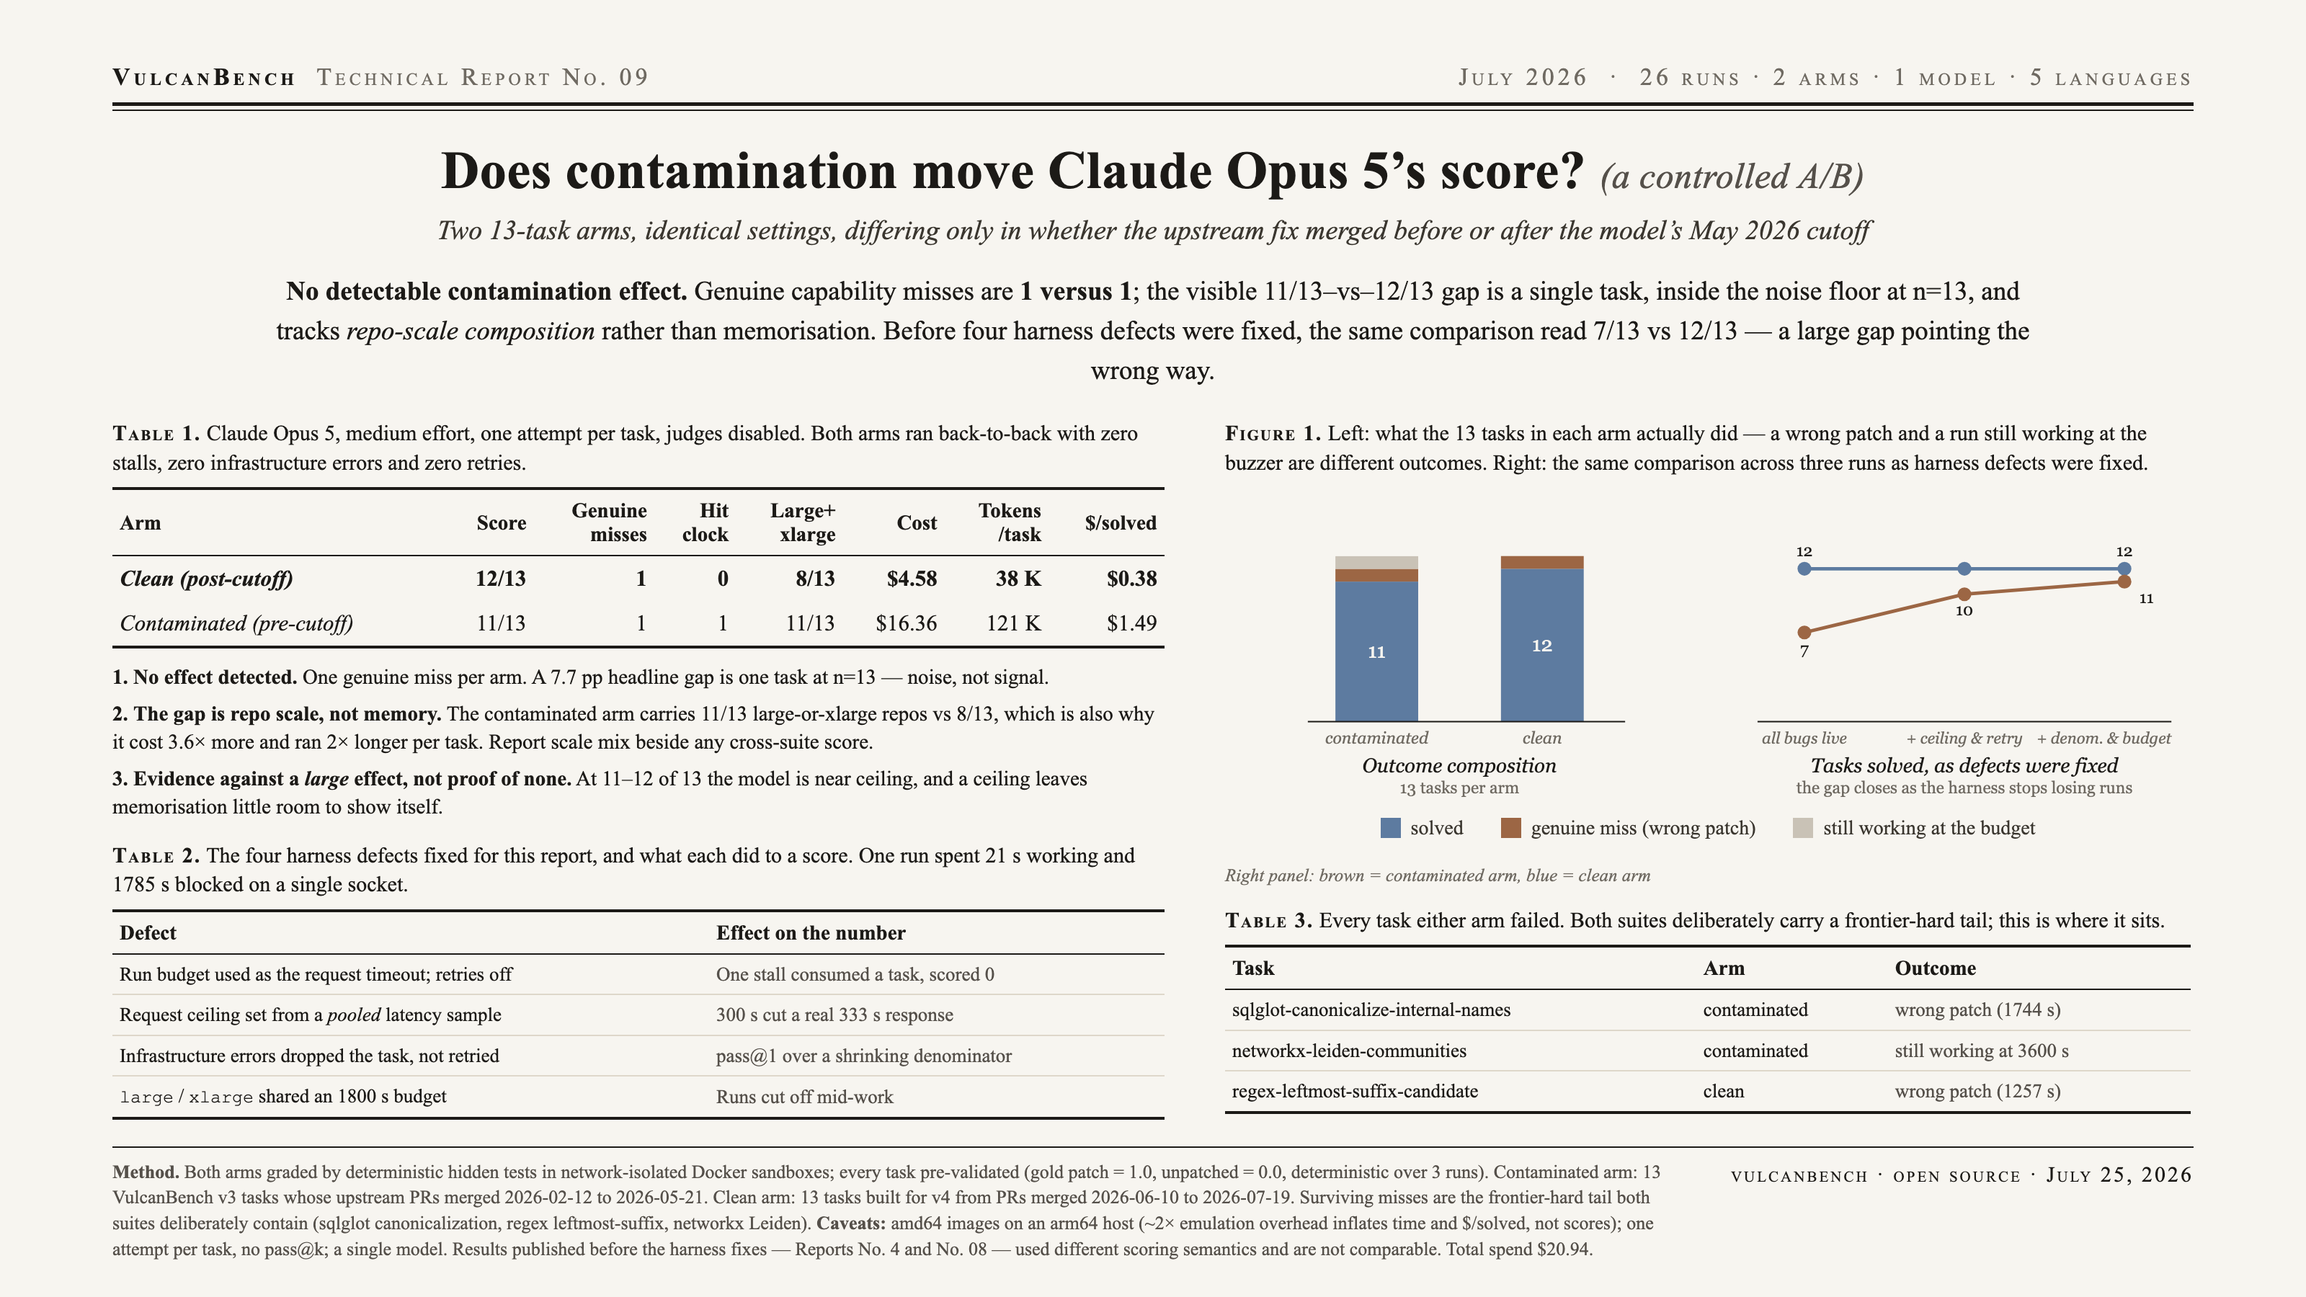
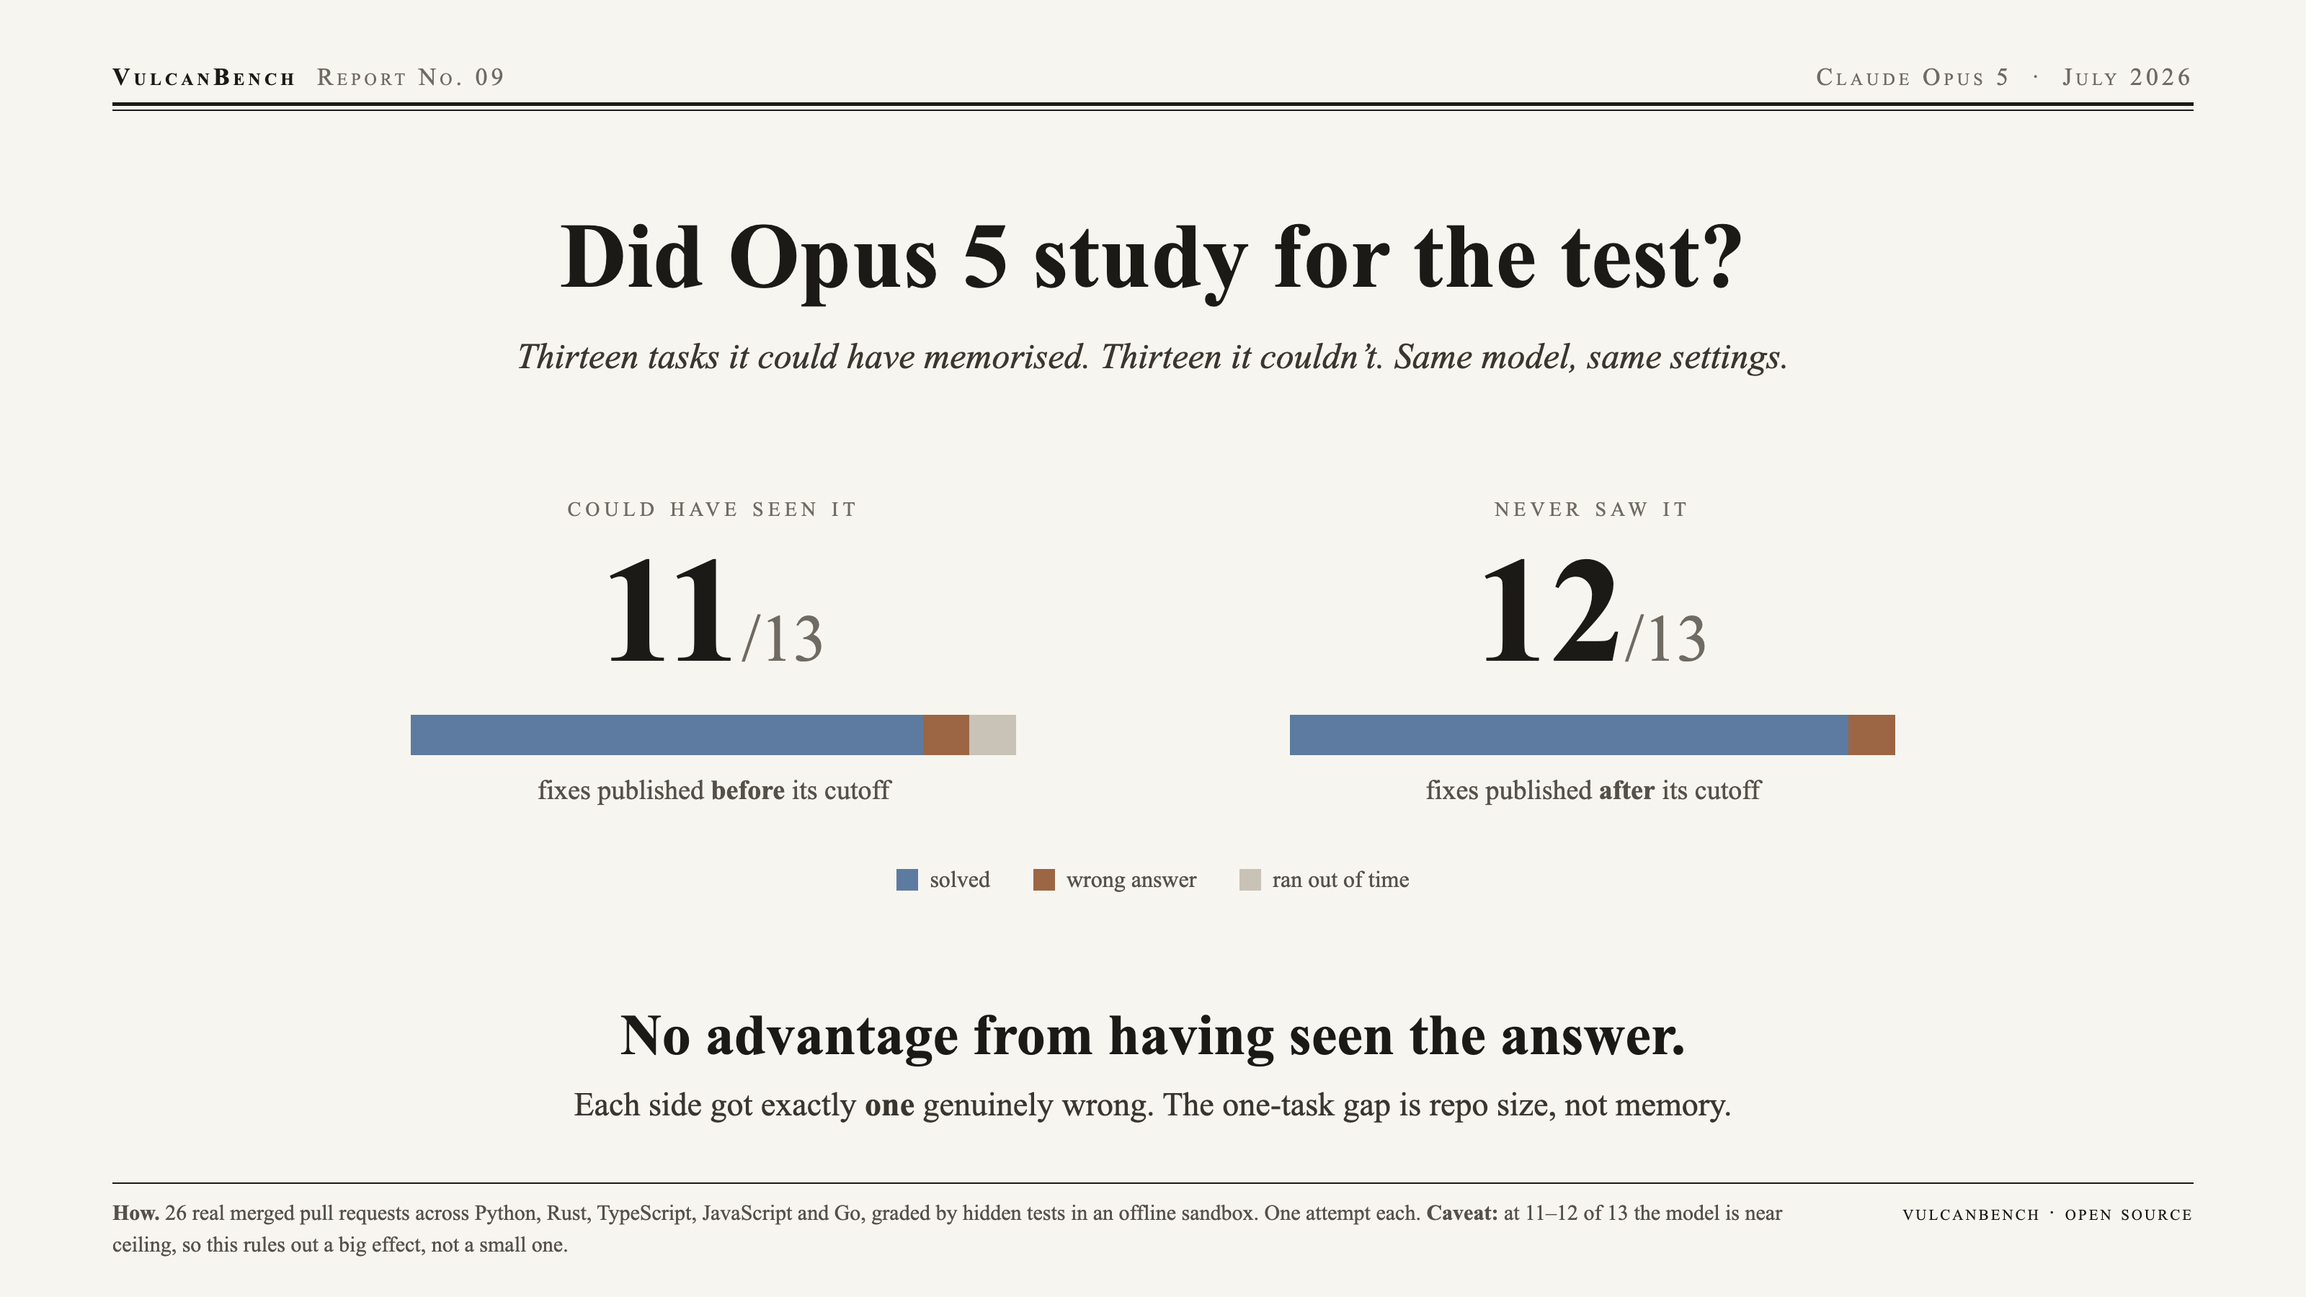
docs/results: rebuild the No. 09 scorecard around one question
The previous card was a dense broadsheet -- three tables, two charts, ~450
words. That is a document you read, not a card you glance at and share, and the
title ("Does contamination move Claude Opus 5's score? (a controlled A/B)")
led with jargon rather than the question anyone actually has.

Retitled "Did Opus 5 study for the test?" and cut to ~90 words: two scores, one
stacked bar each, one verdict line. The arms are labelled "could have seen it"
and "never saw it" instead of contaminated/clean, which is the same distinction
without the term of art.

The bars keep the one distinction worth preserving at this size -- solved vs
wrong answer vs ran out of time -- because collapsing those into "failed" is
what made the earlier readings of this experiment wrong.

Dropped from the card, still in model-card.md: the harness-defect table, the
per-run progression, the failing task names, cost and token figures. The
near-ceiling caveat stays in the footer, since a headline of "no advantage"
without it overclaims.

diff --git a/docs/results/v4-contamination-2026-07/card.html b/docs/results/v4-contamination-2026-07/card.html
@@ -9,135 +9,73 @@ body { font-family: "Times New Roman", Times, Georgia, serif; background: #f7f5f
 .masthead b { color: #1c1a17; font-weight: 600; }
 .rule2 { border-top: 2.5px solid #1c1a17; margin-top: 8px; }
 .rule1 { border-top: 1px solid #1c1a17; margin-top: 2.5px; }
-h1 { text-align: center; font-size: 37px; font-weight: 600; margin-top: 20px; letter-spacing: 0.2px; }
-.eff { font-size: 25px; font-weight: 400; font-style: italic; color: #55504a; }
-.authors { text-align: center; font-style: italic; font-size: 19px; margin-top: 9px; color: #3a362f; }
-.abstract { width: 1240px; margin: 18px auto 0; font-size: 18.5px; line-height: 1.48; text-align: center; }
-.cols { display: grid; grid-template-columns: 730px 670px; gap: 42px; margin-top: 20px; }
-.tcap, .fcap { font-size: 15px; margin-bottom: 7px; line-height: 1.35; }
-.tcap b, .fcap b { font-variant: small-caps; letter-spacing: 1px; font-weight: 600; }
-table { width: 100%; border-collapse: collapse; font-size: 15.5px; }
-thead th { border-top: 2px solid #1c1a17; border-bottom: 1px solid #1c1a17;
-  padding: 6px 5px; font-weight: 600; text-align: right; font-size: 14.5px; }
-thead th:first-child { text-align: left; }
-tbody td { padding: 6.5px 5px; text-align: right; font-variant-numeric: tabular-nums; }
-tbody td:first-child { text-align: left; }
-tbody tr:last-child td { border-bottom: 2px solid #1c1a17; }
-tbody tr.win td { font-weight: 700; }
-.model { font-style: italic; }
-.legend { display: flex; flex-wrap: wrap; gap: 18px 26px; justify-content: center; font-size: 14px; margin-top: 6px; color: #3a362f; }
-.legend span { display: inline-flex; align-items: center; gap: 7px; }
-.legend .note { width: 100%; text-align: center; font-size: 12.5px; color: #6f6a62; font-style: italic; }
-.sw { width: 14px; height: 14px; display: inline-block; }
-.t2 { margin-top: 14px; }
-table.defects { font-size: 13.5px; }
-table.defects thead th { text-align: left; }
-table.defects tbody td { text-align: left; padding: 5px 5px; line-height: 1.28; }
-table.defects tbody td:last-child { color: #55504a; }
-table.defects tbody tr + tr td { border-top: 1px solid #ded7ca; }
-.mono { font-family: "Courier New", monospace; font-size: 12.5px; }
-.findings { margin-top: 10px; font-size: 14.5px; line-height: 1.34; }
-.findings p { margin-top: 6px; }
-.findings .n { font-weight: 700; }
-.foot { position: absolute; left: 78px; right: 78px; bottom: 24px;
-  border-top: 1px solid #1c1a17; padding-top: 8px; font-size: 13px;
-  color: #55504a; line-height: 1.38; display: flex; justify-content: space-between; gap: 40px; }
+
+h1 { text-align: center; font-size: 64px; font-weight: 600; margin-top: 64px; letter-spacing: 0.2px; }
+.deck { text-align: center; font-style: italic; font-size: 25px; margin-top: 18px; color: #3a362f; }
+
+.board { display: grid; grid-template-columns: 1fr 1fr; gap: 120px; margin: 78px auto 0; width: 1100px; }
+.arm { text-align: center; }
+.armlabel { font-variant: small-caps; letter-spacing: 3px; font-size: 20px; color: #6f6a62; }
+.score { font-size: 104px; font-weight: 600; line-height: 1.05; margin-top: 6px; font-variant-numeric: tabular-nums; }
+.score span { font-size: 46px; color: #6f6a62; font-weight: 400; }
+.bar { display: flex; height: 28px; width: 420px; margin: 18px auto 0; }
+.bar i { display: block; height: 100%; }
+.detail { font-size: 19px; color: #55504a; margin-top: 13px; }
+
+.verdict { text-align: center; margin-top: 76px; }
+.verdict .big { font-size: 40px; font-weight: 600; }
+.verdict .sub { font-size: 23px; margin-top: 12px; color: #3a362f; }
+.verdict .sub b { font-weight: 600; }
+
+.foot { position: absolute; left: 78px; right: 78px; bottom: 26px;
+  border-top: 1px solid #1c1a17; padding-top: 9px; font-size: 15px;
+  color: #55504a; line-height: 1.45; display: flex; justify-content: space-between; gap: 40px; }
 .foot .brand { white-space: nowrap; text-align: right; font-variant: small-caps;
   letter-spacing: 1.5px; color: #1c1a17; font-size: 15px; }
+.key { display: flex; justify-content: center; gap: 30px; font-size: 16px; color: #55504a; margin-top: 42px; }
+.key span { display: inline-flex; align-items: center; gap: 8px; }
+.sw { width: 15px; height: 15px; display: inline-block; }
 </style></head><body>
 <div class="page">
-  <div class="masthead"><span><b>VulcanBench</b> &nbsp;Technical Report No. 09</span><span>July 2026 &nbsp;&middot;&nbsp; 26 runs &middot; 2 arms &middot; 1 model &middot; 5 languages</span></div>
+  <div class="masthead"><span><b>VulcanBench</b> &nbsp;Report No. 09</span><span>Claude Opus 5 &nbsp;&middot;&nbsp; July 2026</span></div>
   <div class="rule2"></div><div class="rule1"></div>
 
-  <h1>Does contamination move Claude Opus 5&rsquo;s score? <span class="eff">(a controlled A/B)</span></h1>
-  <div class="authors">Two 13-task arms, identical settings, differing only in whether the upstream fix merged before or after the model&rsquo;s May 2026 cutoff</div>
+  <h1>Did Opus&nbsp;5 study for the test?</h1>
+  <div class="deck">Thirteen tasks it could have memorised. Thirteen it couldn&rsquo;t. Same model, same settings.</div>
 
-  <div class="abstract">
-  <b>No detectable contamination effect.</b> Genuine capability misses are <b>1 versus 1</b>; the visible 11/13&ndash;vs&ndash;12/13 gap is a single
-  task, inside the noise floor at n=13, and tracks <i>repo-scale composition</i> rather than memorisation. Before four harness
-  defects were fixed, the same comparison read 7/13 vs 12/13 &mdash; a large gap pointing the wrong way.</div>
-
-  <div class="cols">
-    <div>
-      <div class="tcap"><b>Table 1.</b> Claude Opus 5, medium effort, one attempt per task, judges disabled. Both arms ran back-to-back with zero stalls, zero infrastructure errors and zero retries.</div>
-      <table>
-        <thead><tr><th>Arm</th><th>Score</th><th>Genuine<br>misses</th><th>Hit<br>clock</th><th>Large+<br>xlarge</th><th>Cost</th><th>Tokens<br>/task</th><th>$/solved</th></tr></thead>
-        <tbody>
-          <tr class="win"><td class="model">Clean (post-cutoff)</td><td>12/13</td><td>1</td><td>0</td><td>8/13</td><td>$4.58</td><td>38 K</td><td>$0.38</td></tr>
-          <tr><td class="model">Contaminated (pre-cutoff)</td><td>11/13</td><td>1</td><td>1</td><td>11/13</td><td>$16.36</td><td>121 K</td><td>$1.49</td></tr>
-        </tbody>
-      </table>
-      <div class="findings">
-        <p><span class="n">1.</span> <b>No effect detected.</b> One genuine miss per arm. A 7.7 pp headline gap is one task at n=13 &mdash; noise, not signal.</p>
-        <p><span class="n">2.</span> <b>The gap is repo scale, not memory.</b> The contaminated arm carries 11/13 large-or-xlarge repos vs 8/13, which is also why it cost 3.6&times; more and ran 2&times; longer per task. Report scale mix beside any cross-suite score.</p>
-        <p><span class="n">3.</span> <b>Evidence against a <i>large</i> effect, not proof of none.</b> At 11&ndash;12 of 13 the model is near ceiling, and a ceiling leaves memorisation little room to show itself.</p>
+  <div class="board">
+    <div class="arm">
+      <div class="armlabel">could have seen it</div>
+      <div class="score">11<span>/13</span></div>
+      <div class="bar">
+        <i style="background:#5d7ba0; width:84.6%"></i><i style="background:#9c6644; width:7.7%"></i><i style="background:#c9c2b6; width:7.7%"></i>
       </div>
-      <div class="tcap t2"><b>Table 2.</b> The four harness defects fixed for this report, and what each did to a score. One run spent 21&nbsp;s working and 1785&nbsp;s blocked on a single socket.</div>
-      <table class="defects">
-        <thead><tr><th>Defect</th><th>Effect on the number</th></tr></thead>
-        <tbody>
-          <tr><td>Run budget used as the request timeout; retries off</td><td>One stall consumed a task, scored&nbsp;0</td></tr>
-          <tr><td>Request ceiling set from a <i>pooled</i> latency sample</td><td>300&nbsp;s cut a real 333&nbsp;s response</td></tr>
-          <tr><td>Infrastructure errors dropped the task, not retried</td><td>pass@1 over a shrinking denominator</td></tr>
-          <tr><td><span class="mono">large</span> / <span class="mono">xlarge</span> shared an 1800&nbsp;s budget</td><td>Runs cut off mid-work</td></tr>
-        </tbody>
-      </table>
+      <div class="detail">fixes published <b>before</b> its cutoff</div>
     </div>
-    <div>
-      <div class="fcap"><b>Figure 1.</b> Left: what the 13 tasks in each arm actually did &mdash; a wrong patch and a run still working at the buzzer are different outcomes. Right: the same comparison across three runs as harness defects were fixed.</div>
-      <svg viewBox="0 0 700 228" xmlns="http://www.w3.org/2000/svg" width="100%">
-        <!-- Panel A: outcome composition. 13 tasks = 120px, baseline y=170 -->
-        <rect x="80" y="68.5" width="60" height="101.5" fill="#5d7ba0"/>
-        <text x="110" y="124" text-anchor="middle" font-size="15" fill="#f7f5f0" font-family="Georgia, serif">11</text>
-        <rect x="80" y="59.3" width="60" height="9.2" fill="#9c6644"/>
-        <rect x="80" y="50.1" width="60" height="9.2" fill="#c9c2b6"/>
-        <rect x="200" y="59.2" width="60" height="110.8" fill="#5d7ba0"/>
-        <text x="230" y="119" text-anchor="middle" font-size="15" fill="#f7f5f0" font-family="Georgia, serif">12</text>
-        <rect x="200" y="50.0" width="60" height="9.2" fill="#9c6644"/>
-        <line x1="60" y1="170" x2="290" y2="170" stroke="#1c1a17" stroke-width="1"/>
-        <text x="110" y="186" text-anchor="middle" font-size="12" fill="#6f6a62" font-family="Georgia, serif" font-style="italic">contaminated</text>
-        <text x="230" y="186" text-anchor="middle" font-size="12" fill="#6f6a62" font-family="Georgia, serif" font-style="italic">clean</text>
-        <text x="170" y="207" text-anchor="middle" font-size="14.5" fill="#1c1a17" font-family="Georgia, serif" font-style="italic">Outcome composition</text>
-        <text x="170" y="222" text-anchor="middle" font-size="12" fill="#6f6a62" font-family="Georgia, serif">13 tasks per arm</text>
-
-        <!-- Panel B: progression across harness fixes -->
-        <line x1="386" y1="170" x2="686" y2="170" stroke="#1c1a17" stroke-width="1"/>
-        <line x1="420" y1="59.2" x2="652" y2="59.2" stroke="#5d7ba0" stroke-width="2.5"/>
-        <circle cx="420" cy="59.2" r="5" fill="#5d7ba0"/><circle cx="536" cy="59.2" r="5" fill="#5d7ba0"/><circle cx="652" cy="59.2" r="5" fill="#5d7ba0"/>
-        <text x="420" y="50" text-anchor="middle" font-size="12" fill="#1c1a17" font-family="Georgia, serif">12</text>
-        <text x="652" y="50" text-anchor="middle" font-size="12" fill="#1c1a17" font-family="Georgia, serif">12</text>
-        <polyline points="420,105.4 536,77.7 652,68.5" fill="none" stroke="#9c6644" stroke-width="2.5"/>
-        <circle cx="420" cy="105.4" r="5" fill="#9c6644"/><circle cx="536" cy="77.7" r="5" fill="#9c6644"/><circle cx="652" cy="68.5" r="5" fill="#9c6644"/>
-        <text x="420" y="121" text-anchor="middle" font-size="12" fill="#1c1a17" font-family="Georgia, serif">7</text>
-        <text x="536" y="93" text-anchor="middle" font-size="12" fill="#1c1a17" font-family="Georgia, serif">10</text>
-        <text x="668" y="84" text-anchor="middle" font-size="12" fill="#1c1a17" font-family="Georgia, serif">11</text>
-        <text x="420" y="186" text-anchor="middle" font-size="11.5" fill="#6f6a62" font-family="Georgia, serif" font-style="italic">all bugs live</text>
-        <text x="536" y="186" text-anchor="middle" font-size="11.5" fill="#6f6a62" font-family="Georgia, serif" font-style="italic">+ ceiling &amp; retry</text>
-        <text x="686" y="186" text-anchor="end" font-size="11.5" fill="#6f6a62" font-family="Georgia, serif" font-style="italic">+ denom. &amp; budget</text>
-        <text x="536" y="207" text-anchor="middle" font-size="14.5" fill="#1c1a17" font-family="Georgia, serif" font-style="italic">Tasks solved, as defects were fixed</text>
-        <text x="536" y="222" text-anchor="middle" font-size="12" fill="#6f6a62" font-family="Georgia, serif">the gap closes as the harness stops losing runs</text>
-      </svg>
-      <div class="legend">
-        <span><span class="sw" style="background:#5d7ba0"></span>solved</span>
-        <span><span class="sw" style="background:#9c6644"></span>genuine miss (wrong patch)</span>
-        <span><span class="sw" style="background:#c9c2b6"></span>still working at the budget</span>
-        <span class="note">Right panel: brown = contaminated arm, blue = clean arm</span>
+    <div class="arm">
+      <div class="armlabel">never saw it</div>
+      <div class="score">12<span>/13</span></div>
+      <div class="bar">
+        <i style="background:#5d7ba0; width:92.3%"></i><i style="background:#9c6644; width:7.7%"></i>
       </div>
-      <div class="tcap t2"><b>Table 3.</b> Every task either arm failed. Both suites deliberately carry a frontier-hard tail; this is where it sits.</div>
-      <table class="defects">
-        <thead><tr><th>Task</th><th>Arm</th><th>Outcome</th></tr></thead>
-        <tbody>
-          <tr><td>sqlglot-canonicalize-internal-names</td><td>contaminated</td><td>wrong patch (1744&nbsp;s)</td></tr>
-          <tr><td>networkx-leiden-communities</td><td>contaminated</td><td>still working at 3600&nbsp;s</td></tr>
-          <tr><td>regex-leftmost-suffix-candidate</td><td>clean</td><td>wrong patch (1257&nbsp;s)</td></tr>
-        </tbody>
-      </table>
+      <div class="detail">fixes published <b>after</b> its cutoff</div>
     </div>
   </div>
 
+  <div class="key">
+    <span><span class="sw" style="background:#5d7ba0"></span>solved</span>
+    <span><span class="sw" style="background:#9c6644"></span>wrong answer</span>
+    <span><span class="sw" style="background:#c9c2b6"></span>ran out of time</span>
+  </div>
+
+  <div class="verdict">
+    <div class="big">No advantage from having seen the answer.</div>
+    <div class="sub">Each side got exactly <b>one</b> genuinely wrong. The one-task gap is repo size, not memory.</div>
+  </div>
+
   <div class="foot">
-    <div><b>Method.</b> Both arms graded by deterministic hidden tests in network-isolated Docker sandboxes; every task pre-validated (gold patch = 1.0, unpatched = 0.0, deterministic over 3 runs). Contaminated arm: 13 VulcanBench v3 tasks whose upstream PRs merged 2026-02-12 to 2026-05-21. Clean arm: 13 tasks built for v4 from PRs merged 2026-06-10 to 2026-07-19. Surviving misses are the frontier-hard tail both suites deliberately contain (sqlglot canonicalization, regex leftmost-suffix, networkx Leiden). <b>Caveats:</b> amd64 images on an arm64 host (~2&times; emulation overhead inflates time and $/solved, not scores); one attempt per task, no pass@k; a single model. Results published before the harness fixes &mdash; Reports No. 4 and No. 08 &mdash; used different scoring semantics and are not comparable. Total spend $20.94.</div>
-    <div class="brand">vulcanbench &middot; open source &middot; July 25, 2026</div>
+    <div><b>How.</b> 26 real merged pull requests across Python, Rust, TypeScript, JavaScript and Go, graded by hidden tests in an offline sandbox. One attempt each. <b>Caveat:</b> at 11&ndash;12 of 13 the model is near ceiling, so this rules out a big effect, not a small one.</div>
+    <div class="brand">vulcanbench &middot; open source</div>
   </div>
 </div>
 </body></html>
